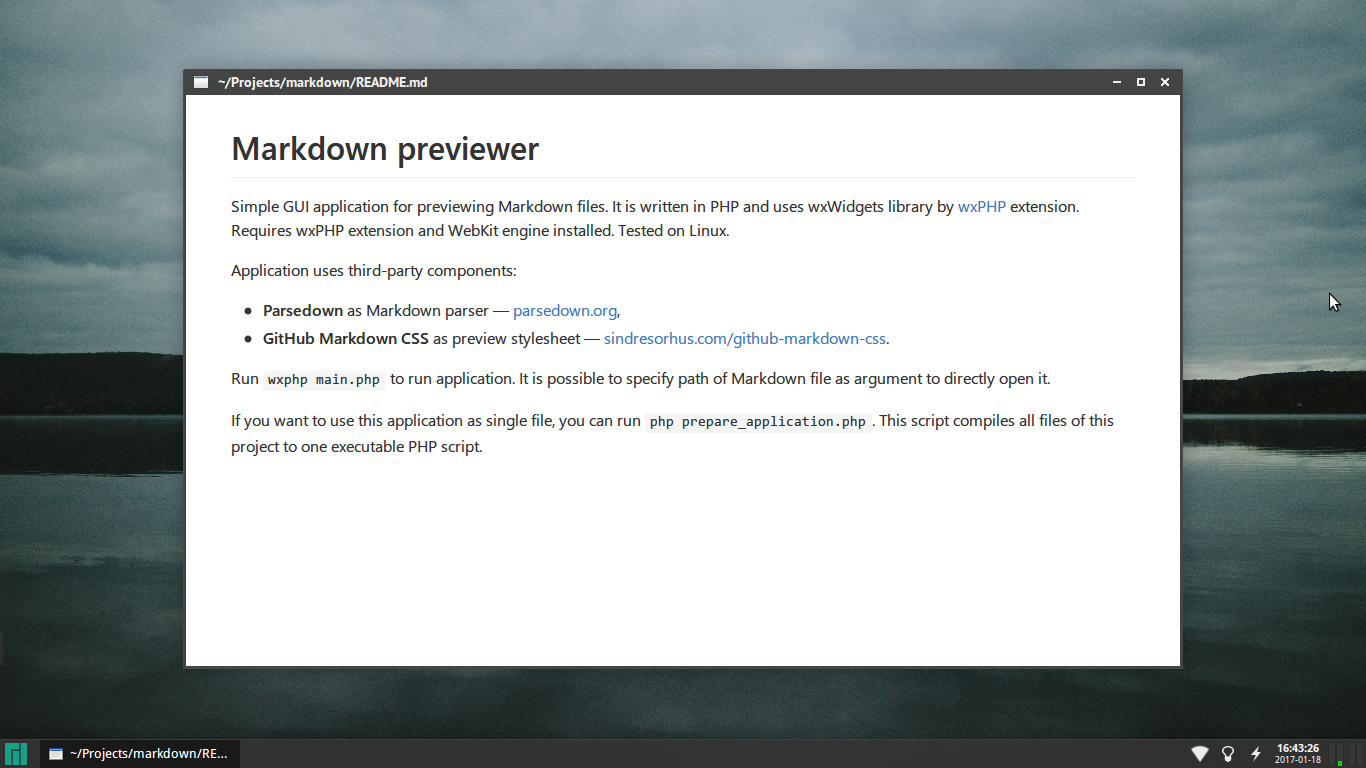
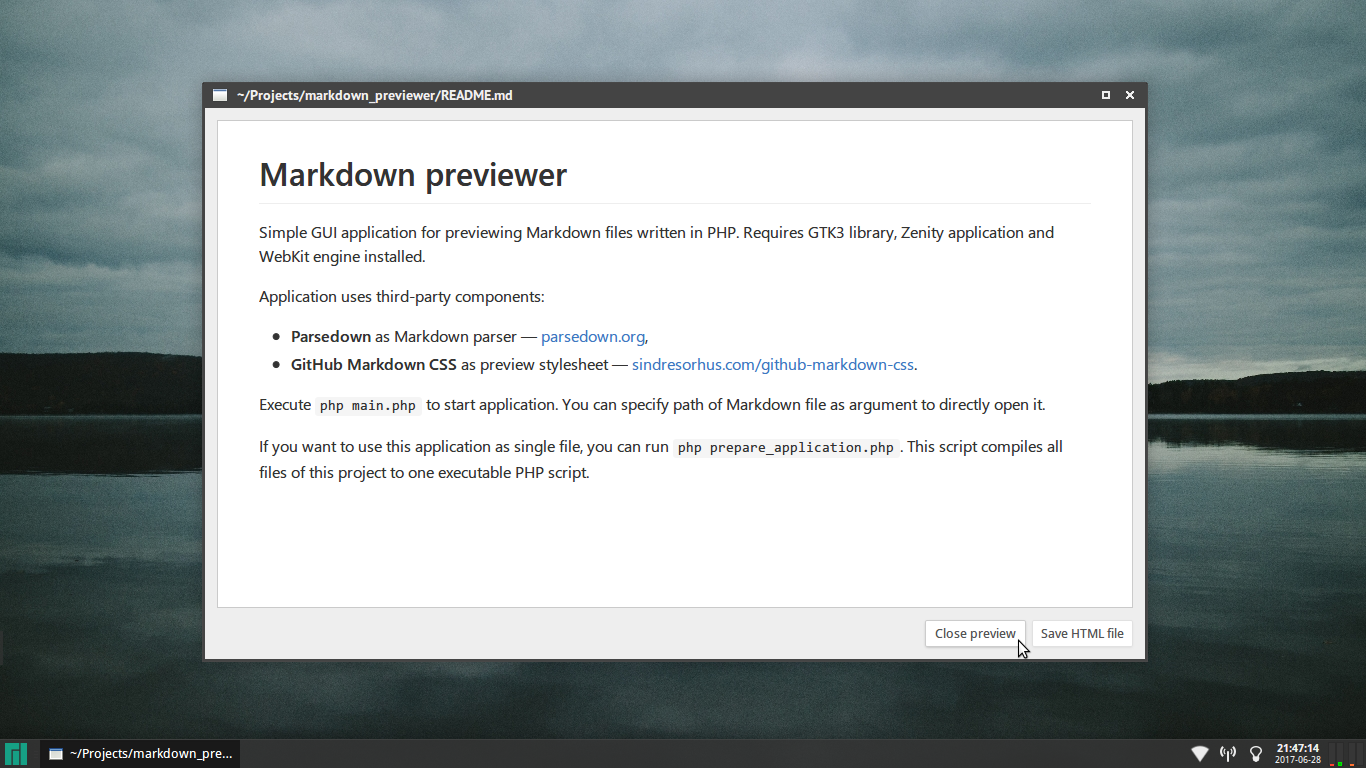
New version.
- Code is rewritten. GUI is separated from app logic.
- wxPHP/wxWidgets replaced by Zenity/GTK3.
- Saving preview as HTML file feature added.

diff --git a/thirdparty/github-markdown-css.php b/thirdparty/github-markdown-css.php
@@ -23,9 +23,7 @@
 # LIABILITY, WHETHER IN AN ACTION OF CONTRACT, TORT OR OTHERWISE, ARISING FROM,
 # OUT OF OR IN CONNECTION WITH THE SOFTWARE OR THE USE OR OTHER DEALINGS IN
 # THE SOFTWARE.
-function get_stylesheet_code()
-{
-	return <<< 'EOL'
-hr,img{box-sizing:content-box}body::after,body::before,hr::after,hr::before{display:table;content:""}a,a:not([href]){text-decoration:none}hr,svg:not(:root){overflow:hidden}img,table tr{background-color:#fff}pre,table{overflow:auto}dl,dl dt,hr,pre code,pre>code,td,th{padding:0}input,pre code{overflow:visible}pre,pre code{word-wrap:normal}body{-ms-text-size-adjust:100%;-webkit-text-size-adjust:100%;color:#333;font-family:-apple-system,BlinkMacSystemFont,"Segoe UI",Roboto,Helvetica,Arial,sans-serif,"Apple Color Emoji","Segoe UI Emoji","Segoe UI Symbol";font-size:16px;line-height:1.5;word-wrap:break-word;margin:2em 4.5vw 2.5em}a{background-color:transparent;-webkit-text-decoration-skip:objects;color:#4078c0}a:active,a:hover{outline-width:0;text-decoration:underline}h1{margin:.67em 0}img{border-style:none;max-width:100%}h1,h2{padding-bottom:.3em;border-bottom:1px solid #eee}input{font:inherit;margin:0;font-family:inherit;font-size:inherit;line-height:inherit}*{box-sizing:border-box}strong{font-weight:600}body::after,hr::after{clear:both}table{border-spacing:0;border-collapse:collapse;display:block;width:100%}blockquote{margin:0;padding:0 1em;color:#777;border-left:.25em solid #ddd}ol ol,ul ol{list-style-type:lower-roman}ol ol ol,ol ul ol,ul ol ol,ul ul ol{list-style-type:lower-alpha}dd{margin-left:0}code{font-family:Consolas,"Liberation Mono",Menlo,Courier,monospace}pre{font:12px Consolas,"Liberation Mono",Menlo,Courier,monospace}input{-webkit-font-feature-settings:"liga" 0;font-feature-settings:"liga" 0}body>:first-child{margin-top:0!important}body>:last-child{margin-bottom:0!important}a:not([href]){color:inherit}blockquote,dl,ol,p,pre,table,ul{margin-top:0;margin-bottom:16px}hr{background:#e7e7e7;height:.25em;margin:24px 0;border:0}blockquote>:first-child{margin-top:0}blockquote>:last-child{margin-bottom:0}h1,h2,h3,h4,h5,h6{margin-top:24px;margin-bottom:16px;font-weight:600;line-height:1.25}dl dt,table th{font-weight:700}h1 code,h1 tt,h2 code,h2 tt,h3 code,h3 tt,h4 code,h4 tt,h5 code,h5 tt,h6 code,h6 tt{font-size:inherit}h1{font-size:2em}h2{font-size:1.5em}h3{font-size:1.25em}h4{font-size:1em}h5{font-size:.875em}h6{font-size:.85em;color:#777}ol,ul{padding-left:2em}ol ol,ol ul,ul ol,ul ul{margin-top:0;margin-bottom:0}li>p{margin-top:16px}li+li{margin-top:.25em}dl dt{margin-top:16px;font-size:1em;font-style:italic}dl dd{padding:0 16px;margin-bottom:16px}table td,table th{padding:6px 13px;border:1px solid #ddd}table tr{border-top:1px solid #ccc}table tr:nth-child(2n){background-color:#f8f8f8}code{padding:.2em 0;margin:0;font-size:85%;background-color:rgba(0,0,0,.04);border-radius:3px}code::after,code::before{letter-spacing:-.2em;content:"\00a0"}pre>code{margin:0;font-size:100%;word-break:normal;white-space:pre;background:0 0;border:0}pre{padding:16px;font-size:85%;line-height:1.45;background-color:#f7f7f7;border-radius:3px}pre code{display:inline;max-width:auto;margin:0;line-height:inherit;background-color:transparent;border:0}pre code::after,pre code::before{content:normal}kbd{display:inline-block;padding:3px 5px;font:11px Consolas,"Liberation Mono",Menlo,Courier,monospace;line-height:10px;color:#555;vertical-align:middle;background-color:#fcfcfc;border:1px solid #ccc;border-bottom-color:#bbb;border-radius:3px;box-shadow:inset 0 -1px 0 #bbb}hr{border-bottom-color:#eee}
-EOL;
-}
+define(
+	'STYLESHEET_CSS_CODE',
+	'hr,img{box-sizing:content-box}body::after,body::before,hr::after,hr::before{display:table;content:""}a,a:not([href]){text-decoration:none}hr,svg:not(:root){overflow:hidden}img,table tr{background-color:#fff}pre,table{overflow:auto}dl,dl dt,hr,pre code,pre>code,td,th{padding:0}input,pre code{overflow:visible}pre,pre code{word-wrap:normal}body{-ms-text-size-adjust:100%;-webkit-text-size-adjust:100%;color:#333;font-family:-apple-system,BlinkMacSystemFont,"Segoe UI",Roboto,Helvetica,Arial,sans-serif,"Apple Color Emoji","Segoe UI Emoji","Segoe UI Symbol";font-size:16px;line-height:1.5;word-wrap:break-word;margin:2em 4.5vw 2.5em}a{background-color:transparent;-webkit-text-decoration-skip:objects;color:#4078c0}a:active,a:hover{outline-width:0;text-decoration:underline}h1{margin:.67em 0}img{border-style:none;max-width:100%}h1,h2{padding-bottom:.3em;border-bottom:1px solid #eee}input{font:inherit;margin:0;font-family:inherit;font-size:inherit;line-height:inherit}*{box-sizing:border-box}strong{font-weight:600}body::after,hr::after{clear:both}table{border-spacing:0;border-collapse:collapse;display:block;width:100%}blockquote{margin:0;padding:0 1em;color:#777;border-left:.25em solid #ddd}ol ol,ul ol{list-style-type:lower-roman}ol ol ol,ol ul ol,ul ol ol,ul ul ol{list-style-type:lower-alpha}dd{margin-left:0}code{font-family:Consolas,"Liberation Mono",Menlo,Courier,monospace}pre{font:12px Consolas,"Liberation Mono",Menlo,Courier,monospace}input{-webkit-font-feature-settings:"liga" 0;font-feature-settings:"liga" 0}body>:first-child{margin-top:0!important}body>:last-child{margin-bottom:0!important}a:not([href]){color:inherit}blockquote,dl,ol,p,pre,table,ul{margin-top:0;margin-bottom:16px}hr{background:#e7e7e7;height:.25em;margin:24px 0;border:0}blockquote>:first-child{margin-top:0}blockquote>:last-child{margin-bottom:0}h1,h2,h3,h4,h5,h6{margin-top:24px;margin-bottom:16px;font-weight:600;line-height:1.25}dl dt,table th{font-weight:700}h1 code,h1 tt,h2 code,h2 tt,h3 code,h3 tt,h4 code,h4 tt,h5 code,h5 tt,h6 code,h6 tt{font-size:inherit}h1{font-size:2em}h2{font-size:1.5em}h3{font-size:1.25em}h4{font-size:1em}h5{font-size:.875em}h6{font-size:.85em;color:#777}ol,ul{padding-left:2em}ol ol,ol ul,ul ol,ul ul{margin-top:0;margin-bottom:0}li>p{margin-top:16px}li+li{margin-top:.25em}dl dt{margin-top:16px;font-size:1em;font-style:italic}dl dd{padding:0 16px;margin-bottom:16px}table td,table th{padding:6px 13px;border:1px solid #ddd}table tr{border-top:1px solid #ccc}table tr:nth-child(2n){background-color:#f8f8f8}code{padding:.2em 0;margin:0;font-size:85%;background-color:rgba(0,0,0,.04);border-radius:3px}code::after,code::before{letter-spacing:-.2em;content:"\00a0"}pre>code{margin:0;font-size:100%;word-break:normal;white-space:pre;background:0 0;border:0}pre{padding:16px;font-size:85%;line-height:1.45;background-color:#f7f7f7;border-radius:3px}pre code{display:inline;max-width:auto;margin:0;line-height:inherit;background-color:transparent;border:0}pre code::after,pre code::before{content:normal}kbd{display:inline-block;padding:3px 5px;font:11px Consolas,"Liberation Mono",Menlo,Courier,monospace;line-height:10px;color:#555;vertical-align:middle;background-color:#fcfcfc;border:1px solid #ccc;border-bottom-color:#bbb;border-radius:3px;box-shadow:inset 0 -1px 0 #bbb}hr{border-bottom-color:#eee}'
+);

diff --git a/source/gui.php b/source/gui.php
@@ -1,0 +1,89 @@
+<?php
+
+trait GUI
+{
+	static private function _zenity(array $arguments = [])
+	{
+		// Check whether Zenity is installed.
+		static $checked = false;
+		if (!$checked and !shell_exec('which zenity 2> /dev/null')) {
+			exit('This applications requires Zenity.'."\n");
+		}
+		$checked = true;
+
+		// Remove Zenity icon from titlebar by setting unexistent icon.
+		$arguments['window-icon'] = 'undefined';
+
+		// Prepare arguments string.
+		array_walk($arguments, function(&$value, $key){
+			$value = '--' . $key . (($value == '') ? '' : '="' . $value . '"');
+		});
+		$arguments = implode(' ', $arguments);
+
+		// Run Zenity. Use English messages for better consistence. Hide unwanted GTK error messages.
+		// Return value returned by Zenity if is not empty. Otherwise, return true when exit code
+		// was other than 0 or return false when exit code is equal to 0.
+		exec('LC_MESSAGES=C zenity ' . $arguments . ' 2> /dev/null', $output, $code);
+		return ($output) ? implode('', $output) : !(bool)$code;
+	}
+
+	static public function pickMarkdownFileToOpen()
+	{
+		return self::_zenity([
+			'file-selection' => '',
+			'file-filter'    => 'Markdown files (*.md) | *.md',
+			'title'          => 'Choose Markdown file',
+		]);
+	}
+
+	static public function pickHTMLFileToSave()
+	{
+		return self::_zenity([
+			'file-selection'    => '',
+			'file-filter'       => 'HTML documents (*.html) | *.html *.htm',
+			'save'              => '',
+			'confirm-overwrite' => '',
+			'title'             => 'Choose locaction to save new HTML file',
+		]);
+	}
+
+	static public function showHTMLFile($HTMLFilePath, $markdownFilePath, &$userWantsHTMLFile)
+	{
+		$clickedButton = self::_zenity([
+			'text-info'    => '',
+			'html'         => '',
+			'filename'     => $HTMLFilePath,
+			'title'        => str_replace((string)getenv('HOME'), '~', $markdownFilePath),
+			'ok-label'     => 'Save HTML file',
+			'cancel-label' => 'Close preview',
+			'width'        => '1020',
+			'height'       => '640',
+		]);
+
+		$userWantsHTMLFile = $clickedButton;
+	}
+
+	static public function sayHello()
+	{
+		$message = <<< 'EOL'
+<span size='x-large'>Markdown previewer</span>\n\n
+This is an very simple application for viewing Markdown files.\n
+Close this dialog and pick Markdown file on your hard drive.\n
+You can also run this application with file path as argument.\n\n
+Uses Parsedown as Markdown parser\n
+— <a href='http://parsedown.org'>http://parsedown.org</a>\n
+Uses GitHub Markdown CSS as preview stylesheet\n
+— <a href='http://sindresorhus.com/github-markdown-css'>http://sindresorhus.com/github-markdown-css</a>.\n\n
+Written by Tomasz Gąsior — <a href='https://tomaszgasior.pl'>https://tomaszgasior.pl</a>.
+EOL;
+
+		self::_zenity([
+			'info'      => '',
+			'ellipsize' => '',
+			'text'      => str_replace("\n", '', $message),
+			'icon-name' => 'edit',
+			'title'     => 'Markdown previewer',
+			'ok-label'  => 'OK, go next!',
+		]);
+	}
+}

diff --git a/source/app.php b/source/app.php
@@ -1,0 +1,56 @@
+<?php
+
+trait App
+{
+	static public function main(array $argv)
+	{
+		// Get Markdown file path from first argument in command line. Chech file existence by realpath().
+		$markdownFilePath = (!empty($argv[1]) and $p = realpath($argv[1])) ? $p : false;
+
+		// Ask user to choose Markdown file if it is not specified.
+		if (!$markdownFilePath) {
+			GUI::sayHello();
+			($markdownFilePath = GUI::pickMarkdownFileToOpen()) or exit();
+		}
+
+		// Generate HTML file and show it.
+		$HTMLPreviewFile = self::_generatePreview($markdownFilePath);
+		GUI::showHTMLFile($HTMLPreviewFile, $markdownFilePath, $userWantsHTMLFile);
+
+		// Copy HTML file to specified location if user selected this option.
+		if ($userWantsHTMLFile) {
+			($copyHTMLToPath = GUI::pickHTMLFileToSave()) or exit();
+			copy($HTMLPreviewFile, $copyHTMLToPath);
+		}
+	}
+
+	static private function _generatePreview($markdownFilePath)
+	{
+		$stylesheet = STYLESHEET_CSS_CODE;
+		$title      = $markdownFilePath;
+		$content    = (new Parsedown)->text(file_get_contents($markdownFilePath));
+
+		$HTMLCode = <<< EOL
+<!doctype html>
+
+<meta charset="utf-8">
+<meta name="Generator" content="Markdown preview & Parsedown">
+<title>$title</title>
+
+<style>$stylesheet</style>
+
+$content
+EOL;
+
+		$HTMLPreviewFile = sys_get_temp_dir() . '/markdown_preview.html';
+		register_shutdown_function(function(){
+			@unlink(sys_get_temp_dir() . '/markdown_preview.html');
+		});
+
+		file_put_contents($HTMLPreviewFile, $HTMLCode);
+		return $HTMLPreviewFile;
+	}
+}
+
+// Start an application here.
+App::main($argv);

diff --git a/prepare_application.php b/prepare_application.php
@@ -2,9 +2,9 @@
 
 $files = [
 	'thirdparty/github-markdown-css.php',
-	'thirdparty/Parsedown.php',
-	'source/functions.php',
-	'source/previewer.php',
+	'thirdparty/parsedown.php',
+	'source/app.php',
+	'source/gui.php',
 ];
 
 foreach ($files as &$file) {
@@ -13,6 +13,6 @@ foreach ($files as &$file) {
 
 file_put_contents(
 	'markdown_preview',
-	'#!/usr/bin/wxphp' . "\n" . '<?php ' . implode($files)
+	'#!/usr/bin/php' . "\n" . '<?php ' . implode($files)
 );
 chmod('markdown_preview', 0755);

diff --git a/main.php b/main.php
@@ -1,6 +1,6 @@
 <?php
 
 include 'thirdparty/github-markdown-css.php';
-include 'thirdparty/Parsedown.php';
-include 'source/functions.php';
-include 'source/previewer.php';
+include 'thirdparty/parsedown.php';
+include 'source/gui.php';
+include 'source/app.php';

diff --git a/README.md b/README.md
@@ -1,13 +1,13 @@
 Markdown previewer
 ===
 
-Simple GUI application for previewing Markdown files. It is written in PHP and uses wxWidgets library by [wxPHP](http://wxphp.org/) extension. Requires wxPHP extension and WebKit engine installed. Tested on Linux.
+Simple GUI application for previewing Markdown files written in PHP. Requires GTK3 library, Zenity application and WebKit engine installed.
 
 Application uses third-party components:
 
 * **Parsedown** as Markdown parser — [parsedown.org](http://parsedown.org),
 * **GitHub Markdown CSS** as preview stylesheet — [sindresorhus.com/github-markdown-css](http://sindresorhus.com/github-markdown-css).
 
-Run `wxphp main.php` to run application. It is possible to specify path of Markdown file as argument to directly open it.
+Execute `php main.php` to start application. You can specify path of Markdown file as argument to directly open it.
 
 If you want to use this application as single file, you can run `php prepare_application.php`. This script compiles all files of this project to one executable PHP script.
